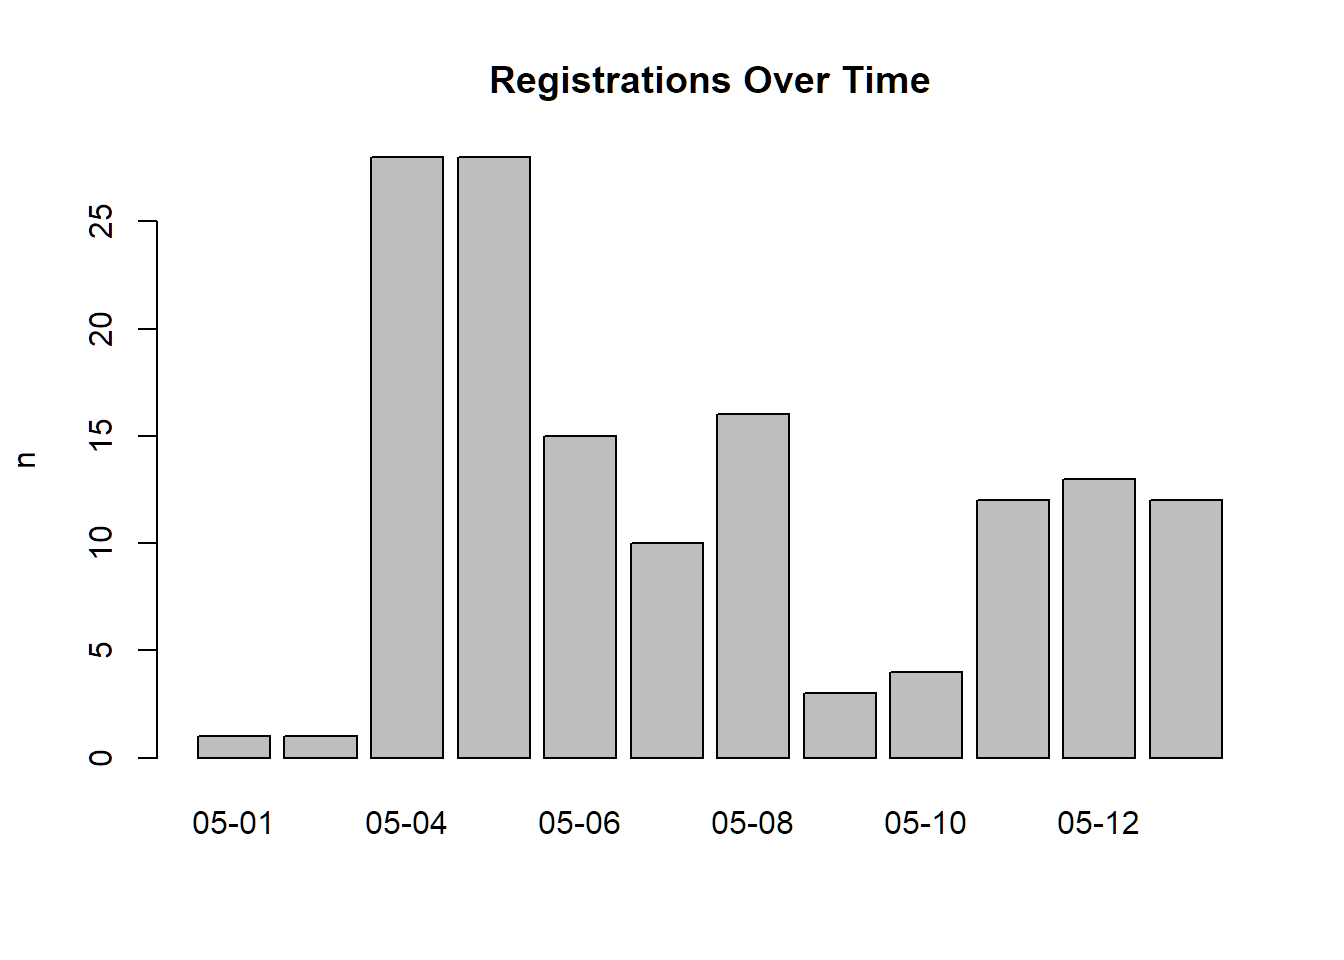
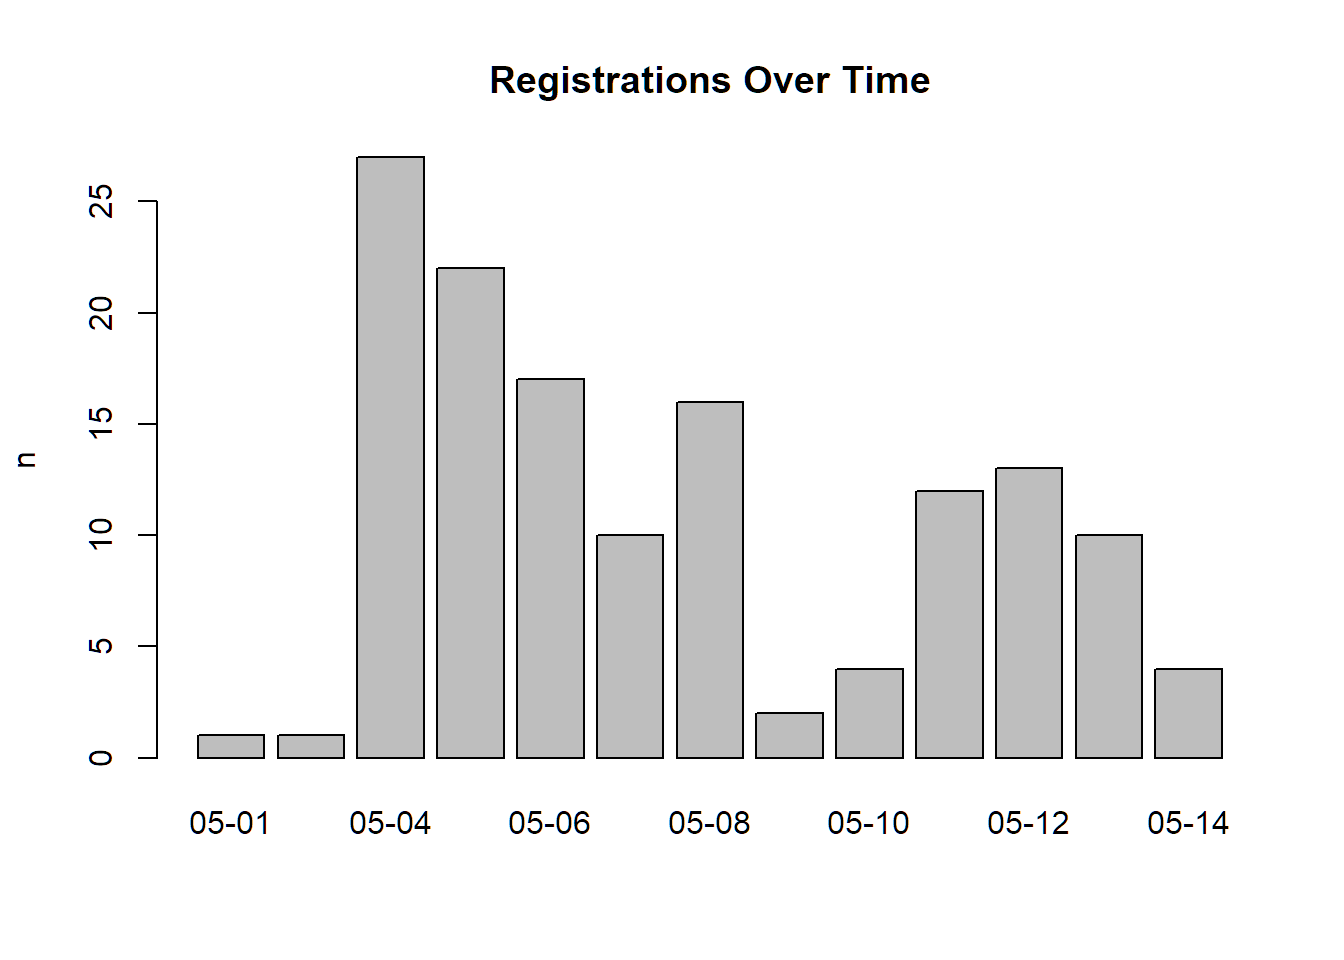
Updated registration summary

diff --git a/docs/reg_summary.html b/docs/reg_summary.html
@@ -270,7 +270,7 @@ div.tocify {
 <img src='images/dc-logo_250x182.png'/><br/><span style="letter-spacing: 0.1em; font-weight:800; font-size:18px; color:#836758; font-family:OCR A Std, Andale Mono, monospace;">ONLINE</span>
 </div>
 DroneCamp 2020 Registrations</h1>
-<h4 class="date">as of Wednesday May 13, 19:11</h4>
+<h4 class="date">as of Thursday May 14, 13:57</h4>
 
 </div>
 
@@ -298,15 +298,15 @@ h4 {
 <h1>Summary</h1>
 <p><p class="total">
 Total: 
-143
+139
 </p><p>
 <em>estimate based on unique email addresses</em>
 </p></p>
 </div>
 <div id="map" class="section level1">
 <h1>Map</h1>
-<div id="htmlwidget-9a4abdabfe7c34e75516" style="width:672px;height:480px;" class="leaflet html-widget"></div>
-<script type="application/json" data-for="htmlwidget-9a4abdabfe7c34e75516">{"x":{"options":{"crs":{"crsClass":"L.CRS.EPSG3857","code":null,"proj4def":null,"projectedBounds":null,"options":{}}},"calls":[{"method":"addTiles","args":["//{s}.tile.openstreetmap.org/{z}/{x}/{y}.png",null,null,{"minZoom":0,"maxZoom":18,"tileSize":256,"subdomains":"abc","errorTileUrl":"","tms":false,"noWrap":false,"zoomOffset":0,"zoomReverse":false,"opacity":1,"zIndex":1,"detectRetina":false,"attribution":"&copy; <a href=\"http://openstreetmap.org\">OpenStreetMap<\/a> contributors, <a href=\"http://creativecommons.org/licenses/by-sa/2.0/\">CC-BY-SA<\/a>"}]},{"method":"addCircleMarkers","args":[[37.4635519,36.678155,44.6111643,44.60509,38.5449065,32.7764749,36.825582,34.048411,38.5449065,36.9741171,38.556576,40.8020712,35.5005139,36.9707,38.5449065,37.7749295,37.3021632,40.659753,38.457611,37.523901,32.700018,36.6002378,34.4208305,34.117047,37.9829496,40.867469,36.681161,38.549256,41.081726,38.440111,32.704499,33.794028,40.039784,39.072831,37.5629917,40.160138,39.5807452,52.9817372,49.2488091,43.6150186,47.6248791,51.0447331,39.720955,39.720955,39.720955,39.720955,39.720955,40.5852602,34.063209,36.678155,36.447533,35.5496939,40.5852602,34.0966764,36.6844029,49.2827291,34.268736,36.9741171,39.830936,36.722616,40.4233142,40.5852602,39.720955,36.6844029,43.0085587,40.867469,37.8715226,38.480494,33.640302,36.148444,49.2488091,38.672127,32.715738,39.7392358,38.3293416,38.3293416,38.3293416,40.0149856,40.4233142,36.812905,33.571185,34.0522342,32.715738,32.557684,38.939926,38.939926,47.899217,45.497856,41.971044,34.432896,36.3302284,36.358928,36.678155,39.9242266,38.7296252,43.828266,32.6926512,32.8328112,49.2710518,39.202725,34.110009,34.1175895,37.4529598,45.5051064,39.767536,49.1344187,39.114138,34.1175895,39.049377,39.049377,47.899217,32.800259,32.853471,40.399281,32.8111612,39.15973,50.9341773,36.6844029,37.342056,33.016928,39.720955,33.869114,33.016928,32.715738,36.678155,38.546306,39.7778,45.56544,45.482341,51.1097378,38.528103,38.528103,37.8715226,37.010322,38.546306,26.067966,39.735745,36.691036,51.0869594,38.359772,36.865587,32.918035],[-122.4285862,-121.79724,-69.3345032,-69.33022,-121.7405167,-79.9310512,-119.76358,-118.34015,-121.7405167,-122.0307963,-121.49285,-124.1636729,-119.2717761,-121.99086,-121.7405167,-122.4194155,-120.4829677,-124.22153,-122.69317,-120.8516,-114.52671,-121.8946761,-119.6981901,-117.77097,-120.3821724,-124.07519,-121.61538,-121.73655,-124.13112,-122.74563,-114.64644,-118.07218,-105.27938,-108.55,-122.3255254,-105.01772,-104.8771726,-122.4949058,-122.9805104,-116.2023137,-122.5210007,-114.0718831,-121.81888,-121.81888,-121.81888,-121.81888,-121.81888,-105.084423,-118.43643,-121.79724,-121.68611,-120.7060049,-105.084423,-117.7197785,-121.802173,-123.1207375,-119.2249,-122.0307963,-105.03736,-120.10081,-104.7091322,-105.084423,-121.81888,-121.802173,-81.2634983,-124.07519,-122.273042,-122.74976,-117.769442,-95.90841,-122.9805104,-121.15783,-117.1610838,-104.990251,-122.7096666,-122.7096666,-122.7096666,-105.2705456,-104.7091322,-121.78299,-117.15362,-118.2436849,-117.1610838,-94.74353,-119.9771868,-119.9771868,-97.05896,-122.76988,-87.75869,-119.837072,-119.2920585,-119.24027,-121.79724,-83.8088171,-120.798546,-84.74219,-114.6276916,-117.2712717,-123.1588119,-121.02076,-117.71973,-118.188329,-122.1817252,-122.6750261,-105.01973,-123.1163498,-121.6196,-118.188329,-76.49892,-76.49892,-97.05896,-115.35369,-115.58942,-104.70172,-115.3802643,-121.53735,-114.106128,-121.802173,-120.50154,-116.846046,-121.81888,-117.92985,-116.846046,-117.1610838,-121.79724,-121.68682,-89.67982,-122.64635,-122.60007,-114.1517792,-76.98063,-76.98063,-122.273042,-121.98523,-121.68682,-80.22016,-105.19337,-119.83321,-114.1294249,-120.75324,-119.75917,-117.08438],10,null,null,{"interactive":true,"className":"","stroke":true,"color":"#03F","weight":5,"opacity":0.5,"fill":true,"fillColor":"#03F","fillOpacity":0.2},1,null,["CE Advisor (Urban Forestry)<br/>UCCE San Mateo/San Francisco","Human Resources<br/>MPC Student","Professor<br/>Unity College","Professor of Geoscience<br/>Unity College","Executive Director, Sustainable Wine & Food Processing Center<br/>University of California Davis","Graduate Student<br/>College of Charleston","Turfgrass and Environmental Horticulture Advisor<br/>University of California Cooperative Extension","Postdoctoral Scholar<br/>UCLA","Associate Director River Restoration<br/>American Rivers","Senior Restoration Ecologist<br/>River Partners","Graduate Student<br/>UC Davis","Associate Environmental Planner<br/>Caltrans","Consultant/Remote Sensing Engineer<br/>Wonderful","Masters Candidate<br/>University of California Santa Cruz","Postdoc<br/>UC Davis","GIS Manager/Drone Pilot<br/>SFEI","Student<br/>University of California, Merced","Assistant Professor<br/>College of the Redwoods","Sr. GIS Analyst / Drone Ops<br/>Jackson Family Wines","Assistant Professor of Geography<br/>CSU, Stanislaus","Media Specialist and Drone Operator<br/>University of Arizona Yuma Center of Excellence for Desert Agriculture","GIS Technician<br/>CSU Monterey Bay","Master Student<br/>UCSB","Statewide Survey and Trapping Coordinator<br/>UC IPM","Professor<br/>Columbia College","Adjunct Lecturer<br/>Humboldt State University","Student Researcher<br/>California State University Monterey Bay","Graduate PhD student<br/>University of California Davis","Student<br/>College of the redwoods","Department Chair<br/>Santa Rosa Junior College","Professor of Geosciences/UAS<br/>Arizona Western College","Environmental Scientist<br/>California Department of Fish and Wildlife, Office of Spill Prevention and Response","GIS Ana.yst<br/>AGS Inc.","GIS Technician<br/>City of Grand Junction","Student<br/>College of San Mateo","Unemployed<br/>Unemployed","GIS Specialist<br/>ICON Engineering","Student / BC Ministry of Forests Auxiliary<br/>British Columbia Institute of Technology","Student<br/>British Columbia Institute of Technology","Assistant Professor, Human Environment Systems<br/>Boise State University","Sr Wildlife Biologist/Project Manager<br/>ManTech International","Geographer<br/>none","Water Conservation Technician<br/>Chico State University","Professor<br/>Chico State University","Student Assistant<br/>Chico State University","Student Assistant<br/>Chico State University","Student Assistant<br/>Chico State University","Owner<br/>Private Business","Undergraduate<br/>University of California, Berkeley","Graduate student<br/>UC Santa Cruz","Director, Hastings Reserve<br/>UC Berkeley","Program Manager<br/>Upper Salinas Las Tablas Resource Conservation District","Environmental Scientist<br/>Twin Fish Enterprises LLC","Student<br/>Claremont Graduate University","Graduate Student<br/>California State University Monterey Bay","Student<br/>BCIT","Lab/Field Assistant<br/>UCCE Ventura County","Master Student<br/>University of California Santa Cruz","Sr Geographic Analyst<br/>HERE Technologies","Field Agronomist<br/>Bayer","Professor & Chair<br/>University of Northern Colorado","Student Researcher<br/>Colorado State University","Instructor<br/>Butte College","IST II<br/>CSU. Monterey Bay","Teaching assistant<br/>Western University","It<br/>Humboldt State U","Field Research Safety CoE/Health & Safety Advisor<br/>UC Berkeley","Dairy Advisor<br/>University of California Cooperative Extension","Principal IT Auditor<br/>UC Irvine","Graduate student<br/>University of Tulsa","GIS Student<br/>BCIT","Postdoc<br/>UCDavis","Videographer<br/>SDSC","Student<br/>University of Denver","Scientific Programs Manager<br/>Marin/Sonoma Mosquito and Vector Control District","Environmental Biologist<br/>Marin/Sonoma Mosquito and Vector Control District","Assistant Manager<br/>Marin/Sonoma Mosquito and Vector Control District","Field Engineer<br/>UNAVCO","Emeritus Professor<br/>University of Northern Colorado","Digital Media Assistant<br/>Elkhorn Slough Foundation","Community Edication Specialist<br/>UCCE","Graduate Student<br/>California State University, Los Angeles","Teaching Assistant<br/>UCSD","Student<br/>Letourneau University","Adjunct Instructor<br/>LTCC","Citizen Science Program Coordinator<br/>League to Save Lake Tahoe","Owner<br/>UAS for Good LLC","Instructor<br/>Portland Community College","Instructor<br/>Harper College","R & D Engineer<br/>University of California Santa Barbara","Environmental Scientist<br/>CAL FIRE","Forerstry Assistant II<br/>CAL FIRE","Student<br/>CSU Monterey Bay","Associate Professor/Geospatial Technology Coordinator<br/>Clark State Community College","GIS Manager<br/>County of El Dorado","Instructor<br/>Mid Michigan College","Postdoc<br/>University of Arizona","R&D Engineer<br/>UC San Diego/Scripps Oceanography","Biologist<br/>Hemmera","Middle School Science Teacher<br/>Nevada City School of the Arts","Digital Scholarship Librarian<br/>Claremont Colleges","GIS Analyst and Geophysicist<br/>Rio Hondo College","Postdoctoral scholar<br/>UC Berkeley","student<br/>PSU","Retired<br/>None","Student in GIS<br/>BCIT (British Columbia Student of Technology)","Advisor<br/>UCCE Sutter-Yuba","GIS Analyst / Geophysicist / Geologist<br/>Rio Hondo College","Instructional Specialist<br/>Anne Arundel Community College","Professor<br/>Anne Arundel Community College","Assistant Professor of Aviation<br/>University of North Dakota","CENTER SUPERINTENDENT<br/>University of California  DREC","SRA<br/>University of California  DREC","Assistant Professor<br/>University of Northern Colorado","lab assistant<br/>UC Cooperative Extension  in Imperial","Farm hand<br/>CSU Chico, student","Student<br/>University of Calgary","Student<br/>CSUMB","Coordinator and Professor of Computer Science<br/>Merced College","Ph.D. student<br/>UC San Diego","Environmental Land Steward II<br/>Chico State Enterprise","President<br/>Roof Rx Inc","PhD student<br/>UCSD","PhD Student<br/>University of California, San Diego","Professor and Farm Incubator<br/>CSUMB","Program and Event Specialist<br/>UC ANR","Student<br/>University of Kentucky","STEAM coordinator<br/>Portland Community College","STEAM Coordinator<br/>Portland. Community College","student<br/>Univeristy of Calgary","Program Assistant - Transportation<br/>College of Southern Marland","Director I, Transportation Dept<br/>College of Southern Maryland","Graduate Student<br/>University of California, Berkeley","student<br/>West Valley College","Sr. Systems Administrator<br/>University of California - Agriculture and Natural Resources","Geomatics Specialist<br/>UF","Multimedia Section Lead<br/>NREL","Research Associate<br/>Bayer Crop Science","Student<br/>University of Calgary","Farm Advisor<br/>UCCE Central Sierra","Asst. Specialist<br/>UC ANR","Student - Intern for Graduate Student Studying Habitat Restoration and GIS<br/>UC Davis"],null,null,{"interactive":false,"permanent":false,"direction":"auto","opacity":1,"offset":[0,0],"textsize":"10px","textOnly":false,"className":"","sticky":true},null]}],"limits":{"lat":[26.067966,52.9817372],"lng":[-124.22153,-69.33022]}},"evals":[],"jsHooks":[]}</script>
+<div id="htmlwidget-fedf57059856bd11d1e1" style="width:672px;height:480px;" class="leaflet html-widget"></div>
+<script type="application/json" data-for="htmlwidget-fedf57059856bd11d1e1">{"x":{"options":{"crs":{"crsClass":"L.CRS.EPSG3857","code":null,"proj4def":null,"projectedBounds":null,"options":{}}},"calls":[{"method":"addTiles","args":["//{s}.tile.openstreetmap.org/{z}/{x}/{y}.png",null,null,{"minZoom":0,"maxZoom":18,"tileSize":256,"subdomains":"abc","errorTileUrl":"","tms":false,"noWrap":false,"zoomOffset":0,"zoomReverse":false,"opacity":1,"zIndex":1,"detectRetina":false,"attribution":"&copy; <a href=\"http://openstreetmap.org\">OpenStreetMap<\/a> contributors, <a href=\"http://creativecommons.org/licenses/by-sa/2.0/\">CC-BY-SA<\/a>"}]},{"method":"addCircleMarkers","args":[[37.4635519,36.678155,44.6111643,44.60509,38.5449065,32.7764749,36.825582,34.048411,38.5449065,36.9741171,38.556576,40.8020712,35.5005139,36.9707,38.5449065,37.7749295,40.659753,38.457611,37.523901,32.700018,36.6002378,34.117047,37.9829496,40.867469,36.681161,34.4208305,38.549256,41.081726,38.440111,32.704499,33.794028,40.039784,40.160138,39.5807452,52.9817372,49.2488091,43.6150186,39.072831,47.6248791,51.0447331,40.5852602,34.063209,37.5629917,36.678155,36.447533,35.5496939,40.5852602,34.0966764,36.6844029,49.2827291,34.268736,39.830936,36.722616,40.4233142,40.5852602,39.720955,36.9741171,36.6844029,43.0085587,37.3021632,40.867469,37.8715226,38.480494,33.640302,36.148444,49.2488091,38.672127,32.715738,39.7392358,38.3293416,38.3293416,38.3293416,40.0149856,40.4233142,36.812905,33.571185,34.0522342,32.715738,32.557684,38.939926,38.939926,47.899217,45.497856,41.971044,34.432896,36.3302284,36.358928,36.678155,39.9242266,38.7296252,43.828266,32.6926512,32.8328112,49.2710518,39.202725,34.110009,37.4529598,45.5051064,39.767536,49.1344187,39.114138,34.1175895,39.049377,39.049377,47.899217,32.800259,32.853471,40.399281,32.8111612,50.9341773,36.6844029,37.342056,33.016928,39.15973,39.720955,33.869114,33.016928,32.715738,36.678155,38.546306,39.7778,45.56544,45.482341,51.1097378,38.528103,38.528103,37.8715226,38.546306,26.067966,39.735745,36.691036,51.0869594,38.359772,36.865587,32.918035,40.399281,39.403178,37.010322],[-122.4285862,-121.79724,-69.3345032,-69.33022,-121.7405167,-79.9310512,-119.76358,-118.34015,-121.7405167,-122.0307963,-121.49285,-124.1636729,-119.2717761,-121.99086,-121.7405167,-122.4194155,-124.22153,-122.69317,-120.8516,-114.52671,-121.8946761,-117.77097,-120.3821724,-124.07519,-121.61538,-119.6981901,-121.73655,-124.13112,-122.74563,-114.64644,-118.07218,-105.27938,-105.01772,-104.8771726,-122.4949058,-122.9805104,-116.2023137,-108.55,-122.5210007,-114.0718831,-105.084423,-118.43643,-122.3255254,-121.79724,-121.68611,-120.7060049,-105.084423,-117.7197785,-121.802173,-123.1207375,-119.2249,-105.03736,-120.10081,-104.7091322,-105.084423,-121.81888,-122.0307963,-121.802173,-81.2634983,-120.4829677,-124.07519,-122.273042,-122.74976,-117.769442,-95.90841,-122.9805104,-121.15783,-117.1610838,-104.990251,-122.7096666,-122.7096666,-122.7096666,-105.2705456,-104.7091322,-121.78299,-117.15362,-118.2436849,-117.1610838,-94.74353,-119.9771868,-119.9771868,-97.05896,-122.76988,-87.75869,-119.837072,-119.2920585,-119.24027,-121.79724,-83.8088171,-120.798546,-84.74219,-114.6276916,-117.2712717,-123.1588119,-121.02076,-117.71973,-122.1817252,-122.6750261,-105.01973,-123.1163498,-121.6196,-118.188329,-76.49892,-76.49892,-97.05896,-115.35369,-115.58942,-104.70172,-115.3802643,-114.106128,-121.802173,-120.50154,-116.846046,-121.53735,-121.81888,-117.92985,-116.846046,-117.1610838,-121.79724,-121.68682,-89.67982,-122.64635,-122.60007,-114.1517792,-76.98063,-76.98063,-122.273042,-121.68682,-80.22016,-105.19337,-119.83321,-114.1294249,-120.75324,-119.75917,-117.08438,-104.70172,-119.7606,-121.98523],10,null,null,{"interactive":true,"className":"","stroke":true,"color":"#03F","weight":5,"opacity":0.5,"fill":true,"fillColor":"#03F","fillOpacity":0.2},1,null,["CE Advisor (Urban Forestry)<br/>UCCE San Mateo/San Francisco","Human Resources<br/>MPC Student","Professor<br/>Unity College","Professor of Geoscience<br/>Unity College","Executive Director, Sustainable Wine & Food Processing Center<br/>University of California Davis","Graduate Student<br/>College of Charleston","Turfgrass and Environmental Horticulture Advisor<br/>University of California Cooperative Extension","Postdoctoral Scholar<br/>UCLA","Associate Director River Restoration<br/>American Rivers","Senior Restoration Ecologist<br/>River Partners","Graduate Student<br/>UC Davis","Associate Environmental Planner<br/>Caltrans","Consultant/Remote Sensing Engineer<br/>Wonderful","Masters Candidate<br/>University of California Santa Cruz","Postdoc<br/>UC Davis","GIS Manager/Drone Pilot<br/>SFEI","Assistant Professor<br/>College of the Redwoods","Sr. GIS Analyst / Drone Ops<br/>Jackson Family Wines","Assistant Professor of Geography<br/>CSU, Stanislaus","Media Specialist and Drone Operator<br/>University of Arizona Yuma Center of Excellence for Desert Agriculture","GIS Technician<br/>CSU Monterey Bay","Statewide Survey and Trapping Coordinator<br/>UC IPM","Professor<br/>Columbia College","Adjunct Lecturer<br/>Humboldt State University","Student Researcher<br/>California State University Monterey Bay","Master Student<br/>UCSB","Graduate PhD student<br/>University of California Davis","Student<br/>College of the redwoods","Department Chair<br/>Santa Rosa Junior College","Professor of Geosciences/UAS<br/>Arizona Western College","Environmental Scientist<br/>California Department of Fish and Wildlife, Office of Spill Prevention and Response","GIS Ana.yst<br/>AGS Inc.","Unemployed<br/>Unemployed","GIS Specialist<br/>ICON Engineering","Student / BC Ministry of Forests Auxiliary<br/>British Columbia Institute of Technology","Student<br/>British Columbia Institute of Technology","Assistant Professor, Human Environment Systems<br/>Boise State University","GIS Technician<br/>City of Grand Junction","Sr Wildlife Biologist/Project Manager<br/>ManTech International","Geographer<br/>none","Owner<br/>Private Business","Undergraduate<br/>University of California, Berkeley","Student<br/>College of San Mateo","Graduate student<br/>UC Santa Cruz","Director, Hastings Reserve<br/>UC Berkeley","Program Manager<br/>Upper Salinas Las Tablas Resource Conservation District","Environmental Scientist<br/>Twin Fish Enterprises LLC","Student<br/>Claremont Graduate University","Graduate Student<br/>California State University Monterey Bay","Student<br/>BCIT","Lab/Field Assistant<br/>UCCE Ventura County","Sr Geographic Analyst<br/>HERE Technologies","Field Agronomist<br/>Bayer","Professor & Chair<br/>University of Northern Colorado","Student Researcher<br/>Colorado State University","Instructor<br/>Butte College","Master Student<br/>University of California Santa Cruz","IST II<br/>CSU. Monterey Bay","Teaching assistant<br/>Western University","Student<br/>UC Merced","It<br/>Humboldt State U","Field Research Safety CoE/Health & Safety Advisor<br/>UC Berkeley","Dairy Advisor<br/>University of California Cooperative Extension","Principal IT Auditor<br/>UC Irvine","Graduate student<br/>University of Tulsa","GIS Student<br/>BCIT","Postdoc<br/>UCDavis","Videographer<br/>SDSC","Student<br/>University of Denver","Scientific Programs Manager<br/>Marin/Sonoma Mosquito and Vector Control District","Environmental Biologist<br/>Marin/Sonoma Mosquito and Vector Control District","Assistant Manager<br/>Marin/Sonoma Mosquito and Vector Control District","Field Engineer<br/>UNAVCO","Emeritus Professor<br/>University of Northern Colorado","Digital Media Assistant<br/>Elkhorn Slough Foundation","Community Edication Specialist<br/>UCCE","Graduate Student<br/>California State University, Los Angeles","Teaching Assistant<br/>UCSD","Student<br/>Letourneau University","Adjunct Instructor<br/>LTCC","Citizen Science Program Coordinator<br/>League to Save Lake Tahoe","Owner<br/>UAS for Good LLC","Instructor<br/>Portland Community College","Instructor<br/>Harper College","R & D Engineer<br/>University of California Santa Barbara","Environmental Scientist<br/>CAL FIRE","Forerstry Assistant II<br/>CAL FIRE","Student<br/>CSU Monterey Bay","Associate Professor/Geospatial Technology Coordinator<br/>Clark State Community College","GIS Manager<br/>County of El Dorado","Instructor<br/>Mid Michigan College","Postdoc<br/>University of Arizona","R&D Engineer<br/>UC San Diego/Scripps Oceanography","Biologist<br/>Hemmera","Middle School Science Teacher<br/>Nevada City School of the Arts","Digital Scholarship Librarian<br/>Claremont Colleges","Postdoctoral scholar<br/>UC Berkeley","student<br/>PSU","Retired<br/>None","Student in GIS<br/>BCIT (British Columbia Student of Technology)","Advisor<br/>UCCE Sutter-Yuba","GIS Analyst / Geophysicist / Geologist<br/>Rio Hondo College","Instructional Specialist<br/>Anne Arundel Community College","Professor<br/>Anne Arundel Community College","Assistant Professor of Aviation<br/>University of North Dakota","CENTER SUPERINTENDENT<br/>University of California  DREC","SRA<br/>University of California  DREC","Assistant Professor<br/>University of Northern Colorado","lab assistant<br/>UC Cooperative Extension  in Imperial","Student<br/>University of Calgary","Student<br/>CSUMB","Coordinator and Professor of Computer Science<br/>Merced College","Ph.D. student<br/>UC San Diego","Farm hand<br/>CSU Chico, student","Environmental Land Steward II<br/>Chico State Enterprise","President<br/>Roof Rx Inc","PhD student<br/>UCSD","PhD Student<br/>University of California, San Diego","Professor and Farm Incubator<br/>CSUMB","Program and Event Specialist<br/>UC ANR","Student<br/>University of Kentucky","STEAM coordinator<br/>Portland Community College","STEAM Coordinator<br/>Portland. Community College","student<br/>Univeristy of Calgary","Program Assistant - Transportation<br/>College of Southern Marland","Director I, Transportation Dept<br/>College of Southern Maryland","Graduate Student<br/>University of California, Berkeley","Sr. Systems Administrator<br/>University of California - Agriculture and Natural Resources","Geomatics Specialist<br/>UF","Multimedia Section Lead<br/>NREL","Research Associate<br/>Bayer Crop Science","Student<br/>University of Calgary","Farm Advisor<br/>UCCE Central Sierra","Asst. Specialist<br/>UC ANR","Student - Intern for Graduate Student Studying Habitat Restoration and GIS<br/>UC Davis","Associate Professor<br/>University of Northern Colorado","GIS Analyst<br/>Michael Baker International","student<br/>West Valley College"],null,null,{"interactive":false,"permanent":false,"direction":"auto","opacity":1,"offset":[0,0],"textsize":"10px","textOnly":false,"className":"","sticky":true},null]}],"limits":{"lat":[26.067966,52.9817372],"lng":[-124.22153,-69.33022]}},"evals":[],"jsHooks":[]}</script>
 </div>
 <div id="by-email-domain" class="section level1">
 <h1>By Email Domain</h1>
@@ -330,10 +330,10 @@ percent
 edu
 </td>
 <td style="text-align:right;">
-97
+93
 </td>
 <td style="text-align:left;">
-67.8%
+66.9%
 </td>
 </tr>
 <tr>
@@ -344,7 +344,7 @@ com
 25
 </td>
 <td style="text-align:left;">
-17.5%
+18%
 </td>
 </tr>
 <tr>
@@ -355,7 +355,7 @@ org
 8
 </td>
 <td style="text-align:left;">
-5.6%
+5.8%
 </td>
 </tr>
 <tr>
@@ -366,7 +366,7 @@ ca
 6
 </td>
 <td style="text-align:left;">
-4.2%
+4.3%
 </td>
 </tr>
 <tr>
@@ -377,12 +377,12 @@ gov
 5
 </td>
 <td style="text-align:left;">
-3.5%
+3.6%
 </td>
 </tr>
 <tr>
 <td style="text-align:left;">
-edi
+net
 </td>
 <td style="text-align:right;">
 1
@@ -421,10 +421,10 @@ n
 <tbody>
 <tr>
 <td style="text-align:left;">
-Chico State University
+University of Northern Colorado
 </td>
 <td style="text-align:right;">
-5
+4
 </td>
 </tr>
 <tr>
@@ -446,14 +446,6 @@ UC Berkeley
 <tr>
 <td style="text-align:left;">
 UC Davis
-</td>
-<td style="text-align:right;">
-3
-</td>
-</tr>
-<tr>
-<td style="text-align:left;">
-University of Northern Colorado
 </td>
 <td style="text-align:right;">
 3
@@ -518,14 +510,6 @@ CSUMB
 <tr>
 <td style="text-align:left;">
 Portland Community College
-</td>
-<td style="text-align:right;">
-2
-</td>
-</tr>
-<tr>
-<td style="text-align:left;">
-Rio Hondo College
 </td>
 <td style="text-align:right;">
 2
@@ -933,6 +917,14 @@ Merced College
 </tr>
 <tr>
 <td style="text-align:left;">
+Michael Baker International
+</td>
+<td style="text-align:right;">
+1
+</td>
+</tr>
+<tr>
+<td style="text-align:left;">
 Mid Michigan College
 </td>
 <td style="text-align:right;">
@@ -998,6 +990,14 @@ Private Business
 <tr>
 <td style="text-align:left;">
 PSU
+</td>
+<td style="text-align:right;">
+1
+</td>
+</tr>
+<tr>
+<td style="text-align:left;">
+Rio Hondo College
 </td>
 <td style="text-align:right;">
 1
@@ -1078,6 +1078,14 @@ UC IPM
 <tr>
 <td style="text-align:left;">
 UC Irvine
+</td>
+<td style="text-align:right;">
+1
+</td>
+</tr>
+<tr>
+<td style="text-align:left;">
+UC Merced
 </td>
 <td style="text-align:right;">
 1
@@ -1230,14 +1238,6 @@ University of California - Agriculture and Natural Resources
 <tr>
 <td style="text-align:left;">
 University of California Santa Barbara
-</td>
-<td style="text-align:right;">
-1
-</td>
-</tr>
-<tr>
-<td style="text-align:left;">
-University of California, Merced
 </td>
 <td style="text-align:right;">
 1
